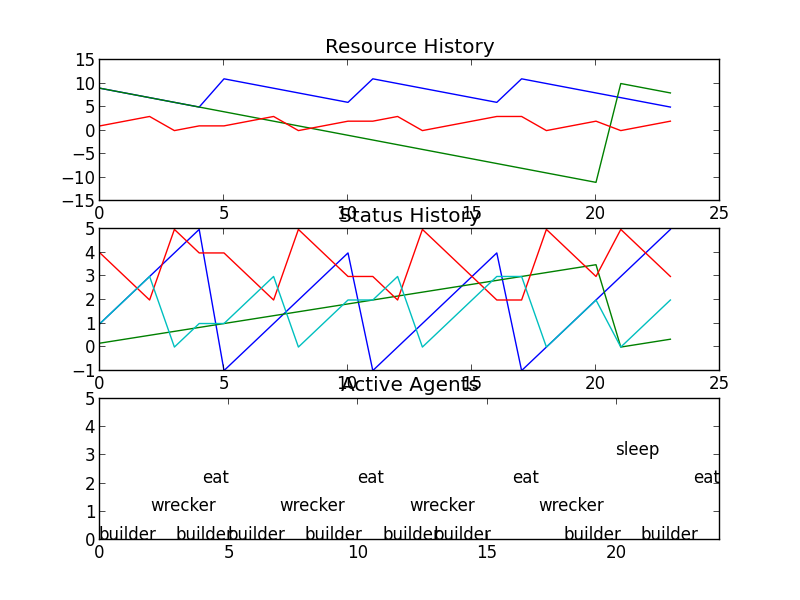
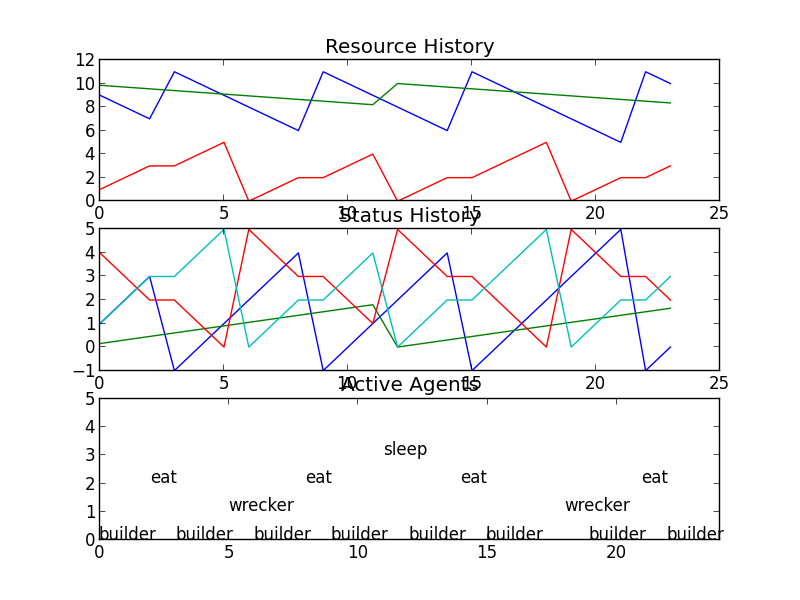
put constants ontop

diff --git a/demo.py b/demo.py
@@ -7,10 +7,28 @@ See LICENSE for licensing information
 
 '''
 
+# Parameters of the Model
+timesteps = 24
+
+CROSS_EXCLUSION_FACTOR = 3
+
+def DIFFICULTY_ENGINE(selected_agent, all_agents):
+    return 0
+
+MAX_BUILD_SIZE = 5
+
+MAX_NOURISHMENT = 10
+MAX_REST = 10
+REST_DECR = 0.15
+
+INITIAL_NOURISHMENT = MAX_NOURISHMENT
+INITIAL_REST = MAX_REST
+INITIAL_BLOCKS = 0
+
 # create resources
-nourishment = Resource(10)
-rest = Resource(10)
-blocks = Resource(0)
+nourishment = Resource(INITIAL_NOURISHMENT)
+rest = Resource(INITIAL_REST)
+blocks = Resource(INITIAL_BLOCKS)
 
 # create different agents at play
 
@@ -19,17 +37,19 @@ child = Manager("child")
 
 # second tier agents
 eat = Worker("eat", 
-             lambda: 10 - nourishment.get(),
-             lambda: (nourishment.set(10), nourishment.incr()))
-play = Manager("play")
+             lambda: MAX_NOURISHMENT - nourishment.get(),
+             lambda: (nourishment.set(MAX_NOURISHMENT), nourishment.incr()))
+play = Manager("play", 
+               difficulty_engine = DIFFICULTY_ENGINE,
+               cross_exclusion = CROSS_EXCLUSION_FACTOR)
 sleep = Worker("sleep", 
-               lambda: (10 - rest.get()) / 6.0, 
-               lambda: (rest.set(10), blocks.set(0)))
+               lambda: MAX_REST - rest.get(), 
+               lambda: (rest.set(MAX_REST), blocks.set(0)))
 
 # third tier agents
 builder = Worker("builder",
-                 lambda: max(0, 5 - blocks.get()),
-                 lambda: blocks.set(min(blocks.get() + 1, 5)))
+                 lambda: max(0, MAX_BUILD_SIZE - blocks.get()),
+                 lambda: blocks.set(min(blocks.get() + 1, MAX_BUILD_SIZE)))
 wrecker = Worker("wrecker", 
                  lambda: blocks.get(),
                  lambda: blocks.set(0))
@@ -50,11 +70,9 @@ resource_history = []
 status_history = []
 winner_history = []
 
-time = 24
-
-for i in xrange(time):
+for i in xrange(timesteps):
     nourishment.decr()
-    rest.decr()
+    rest.decr(REST_DECR)
     child.run()
     resource_history.append((nourishment.get(), rest.get(), blocks.get()))
     status_history.append([x.get_status() for x in (eat, sleep, builder, wrecker)])
@@ -72,7 +90,7 @@ plt.plot(status_history)
 
 plt.subplot(313)
 plt.title("Active Agents")
-plt.xlim([0,time])
+plt.xlim([0,timesteps])
 plt.ylim([0,5])
 for i, winner in enumerate(winner_history):
     if i == 0 or winner is not winner_history[i-1]:

diff --git a/model.py b/model.py
@@ -14,10 +14,12 @@ class Agent:
 
 class Manager(Agent):
     
-    def __init__(self, name):
+    def __init__(self, name, difficulty_engine=lambda a,b:0, cross_exclusion=0):
         Agent.__init__(self, name)
         self.children = []
         self.selected_agent = None
+        self.difficulty_engine = difficulty_engine
+        self.cross_exclusion = cross_exclusion
     
     def add_child(self, agent):
         self.children.append(agent)
@@ -30,8 +32,7 @@ class Manager(Agent):
     
     def reconsider_selected_agent(self):
         other_agent = self.get_best_alternative()
-        # MODIFY THIS LINE FOR CROSS EXCLUSION
-        if self.selected_agent.get_status() < other_agent.get_status():
+        if self.selected_agent.get_status() + self.cross_exclusion < other_agent.get_status():
             self.selected_agent = other_agent
     
     def get_best_alternative(self):
@@ -40,8 +41,8 @@ class Manager(Agent):
         return alternatives[0]
 
     def get_status(self):
-        # MODIFY THIS LINE FOR PRINCIPLE OF NONCOMPROMISE
-        return self.selected_agent.get_status()
+        return self.selected_agent.get_status() -\
+            self.difficulty_engine(self.selected_agent, self.children)
 
     def winner(self):
         return self.selected_agent.winner()
@@ -78,7 +79,3 @@ class Resource:
     
     def __str__(self):
         return str(self.value)
-
-
-if __name__ == '__main__':
-    demo()
